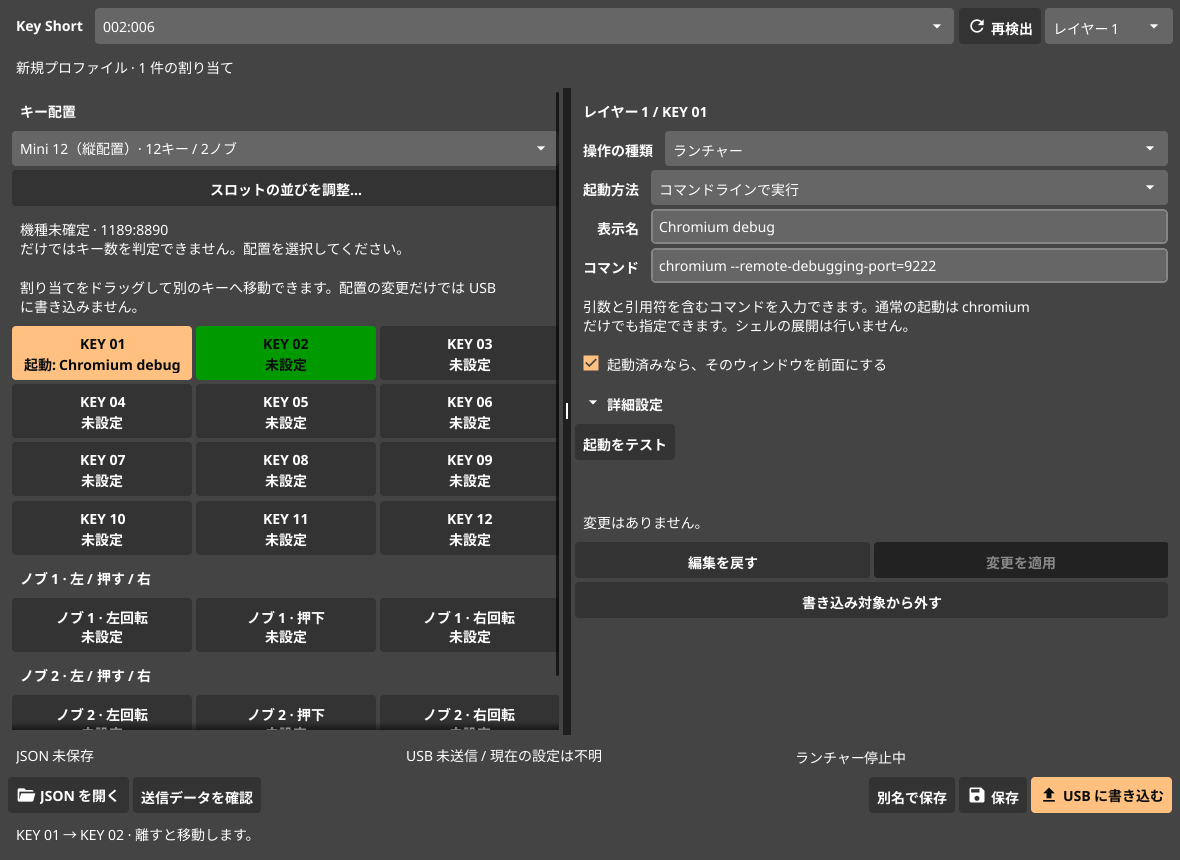
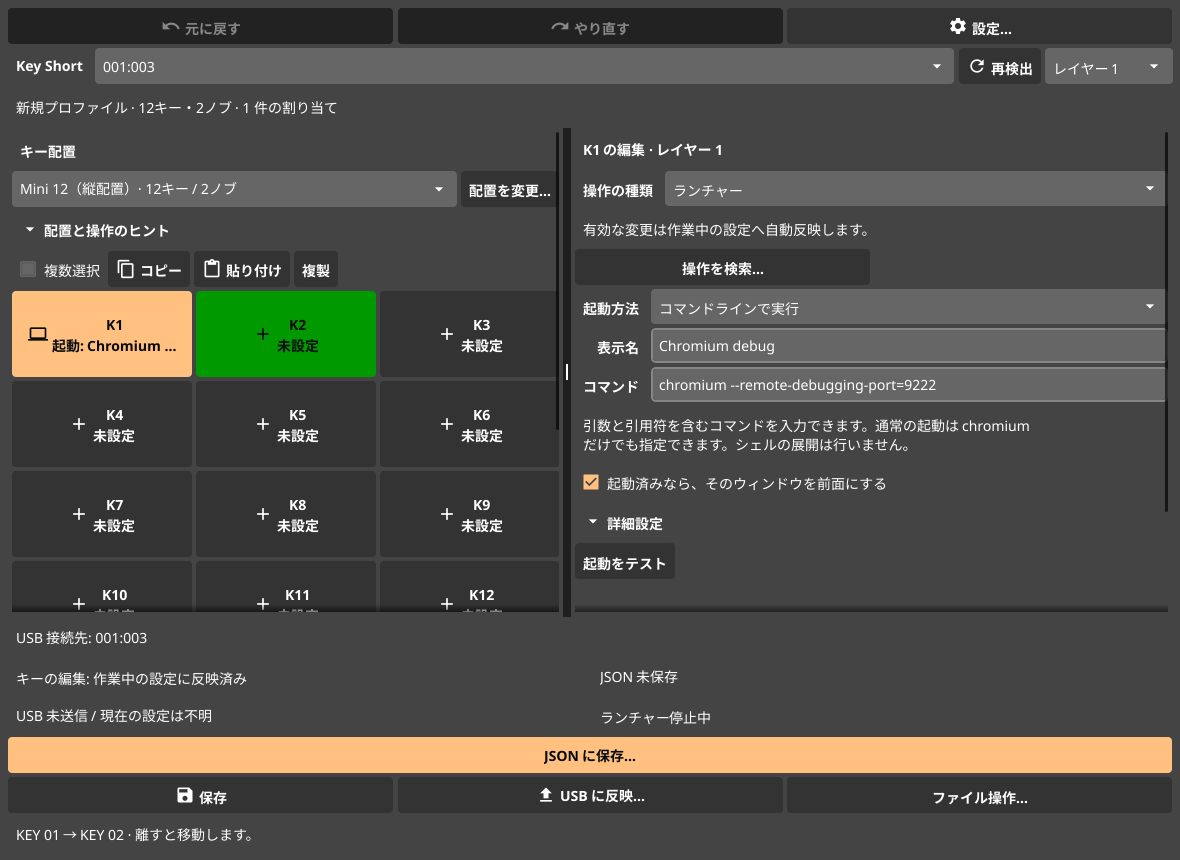
chore: document the streamlined editing workflow and refresh screenshots

diff --git a/docs/ui-workflow.md b/docs/ui-workflow.md
@@ -1,0 +1,58 @@
+# 編集と反映の操作
+
+キーやノブを選び、割り当てを編集します。有効な変更は作業中の設定に自動反映します。キーやレイヤーの切り替えで適用ボタンを押す必要はありません。USB 未接続でも編集・保存できます。ウィンドウを狭くすると「キー配置」と「キーの編集」のタブに切り替わります。入力途中の内容とスクロール位置を保持します。
+
+![小さいウィンドウの編集画面](compact-editor.png)
+
+## 保存と USB への反映
+
+画面下部に、編集・JSON・USB・ランチャー監視の状態を表示します。強調したボタンは、入力エラーの修正、非表示の割り当ての確認、JSON 保存、USB の再検出・転送、監視の再開の順で次の操作を案内します。「保存」「USB に反映…」は個別にも使用できます。
+
+| 操作 | 結果 |
+| --- | --- |
+| キーを編集 | 有効な設定だけを作業中の設定へ反映。JSON と USB は変更しない |
+| JSON に保存 | 作業中の設定をファイルに保存。USB の転送状態は変更しない |
+| USB に反映 | 確認画面で指定したデバイスへ設定を転送 |
+| 監視を再開 | 作業中の設定を使ってランチャー監視を開始 |
+
+無効な入力はエラーを表示し、最後の有効な設定を保持します。「入力を戻す」は無効な入力を最後の有効な設定へ戻します。設定全体を以前の状態へ戻す場合は Undo を使用します。
+
+USB の転送完了後は「転送完了・実機動作未確認」と表示します。実機の設定を読み戻す機能はありません。キーとノブを操作して動作を確認してください。転送途中の失敗は一部だけ反映された可能性を表示します。
+
+## Undo と Redo
+
+キーの編集、割り当ての移動・交換・貼り付け・複製・除外・無効化、表示配置、LED の変更を同じ履歴に記録します。最大200操作を保持します。複数選択への貼り付けは1回の Undo で戻します。無効な入力がある場合は、最初の Undo で入力だけを戻します。
+
+履歴はこのウィンドウ内の作業用です。JSON を開くと履歴を初期化します。Undo で JSON 保存時と同じ設定に戻ると未保存表示を解除します。USB 転送や JSON ファイル自体は Undo の対象にしません。
+
+## コピーと複数選択
+
+キーを選び「コピー」を押し、貼り付け先を選んで「貼り付け」を押します。「複製」は表示中のレイヤーの未設定キーへコピーします。
+
+「複数選択」を有効にすると、クリックまたは Tab と Enter で対象を選べます。1件をコピーして複数のキーへ貼り付けるか、同じ数のキーをコピーして貼り付けます。複数の対応順序はスロット番号順です。レイヤーを切り替えると複数選択を解除します。入力エラーやランチャー予約キーの衝突がある貼り付けは、全体を反映しません。
+
+コピーしたデータには起動コマンドや作業フォルダーも含まれます。ランチャーの貼り付けでは、貼り付け先のレイヤーとスロットから起動用キーを生成します。
+
+| ショートカット | 操作 |
+| --- | --- |
+| Ctrl+S | JSON に保存 |
+| Ctrl+Z | Undo |
+| Ctrl+Shift+Z / Ctrl+Y | Redo |
+| Ctrl+C / Ctrl+V | 割り当てをコピー・貼り付け |
+| Ctrl+D | 未設定キーへ複製 |
+
+macOS では Ctrl の代わりに Command を使います。文字入力欄のコピー・貼り付けは文字を対象にします。Undo/Redo は文字入力欄にフォーカスがあっても設定の履歴を操作します。ダイアログや入力記録中は設定用ショートカットを実行しません。
+
+## 操作名と送信対象
+
+メディア・マウスの操作名は日本語で表示します。「操作を検索…」で種類・日本語名・キー名を検索できます。内部の種類と値は「詳細（内部データ）」で確認できます。カードは設定済み・未設定・無効化・選択状態を文字、アイコン、色で表示します。
+
+「送信対象から除外（実機は保持）」は設定から項目を取り除きます。実機の割り当てを消すデータは送りません。「無効化を設定（USB 反映が必要）」は無操作を表す `keyboard` の `none` を設定します。USB 転送後の結果は実機で確認してください。
+
+## 監視とデバイス設定
+
+「設定…」に LED、監視、トレイ常駐、監視の自動起動をまとめています。起動コマンドの作業フォルダーやウィンドウクラスは、ランチャー編集の「詳細設定」から変更できます。
+
+有効な設定変更や JSON 読み込みで監視を停止した場合は、停止理由と再開操作を表示します。自動起動の定期的な状態確認でも停止理由を保持します。デーモンの開始・再起動は保存済み JSON を使うため、編集を保存してから実行してください。
+
+配置は開いている JSON を優先し、それがなければ接続位置に記憶した配置を復元します。USB ID のみでプリセットを確定せず、未確認の識別コマンドや識別用設定を送信しません。詳しくは [キー配置の設定](layouts.md) を参照してください。

diff --git a/docs/autostart.md b/docs/autostart.md
@@ -49,7 +49,7 @@ make install-systemd PROFILE="$HOME/key-short.json"
 
 1. `make install` でアプリをインストールします。
 2. GUI でランチャーの割り当てを設定し、JSON に保存します。
-3. 「LED・ランチャー設定」を開き、「監視の自動起動」で起動方式を選択します。
+3. 「設定…」を開き、「監視の自動起動」で起動方式を選択します。
 4. 「この JSON で自動起動を有効にする」を押します。
 5. 今すぐ監視する場合は「デーモンを開始」を押します。
 
